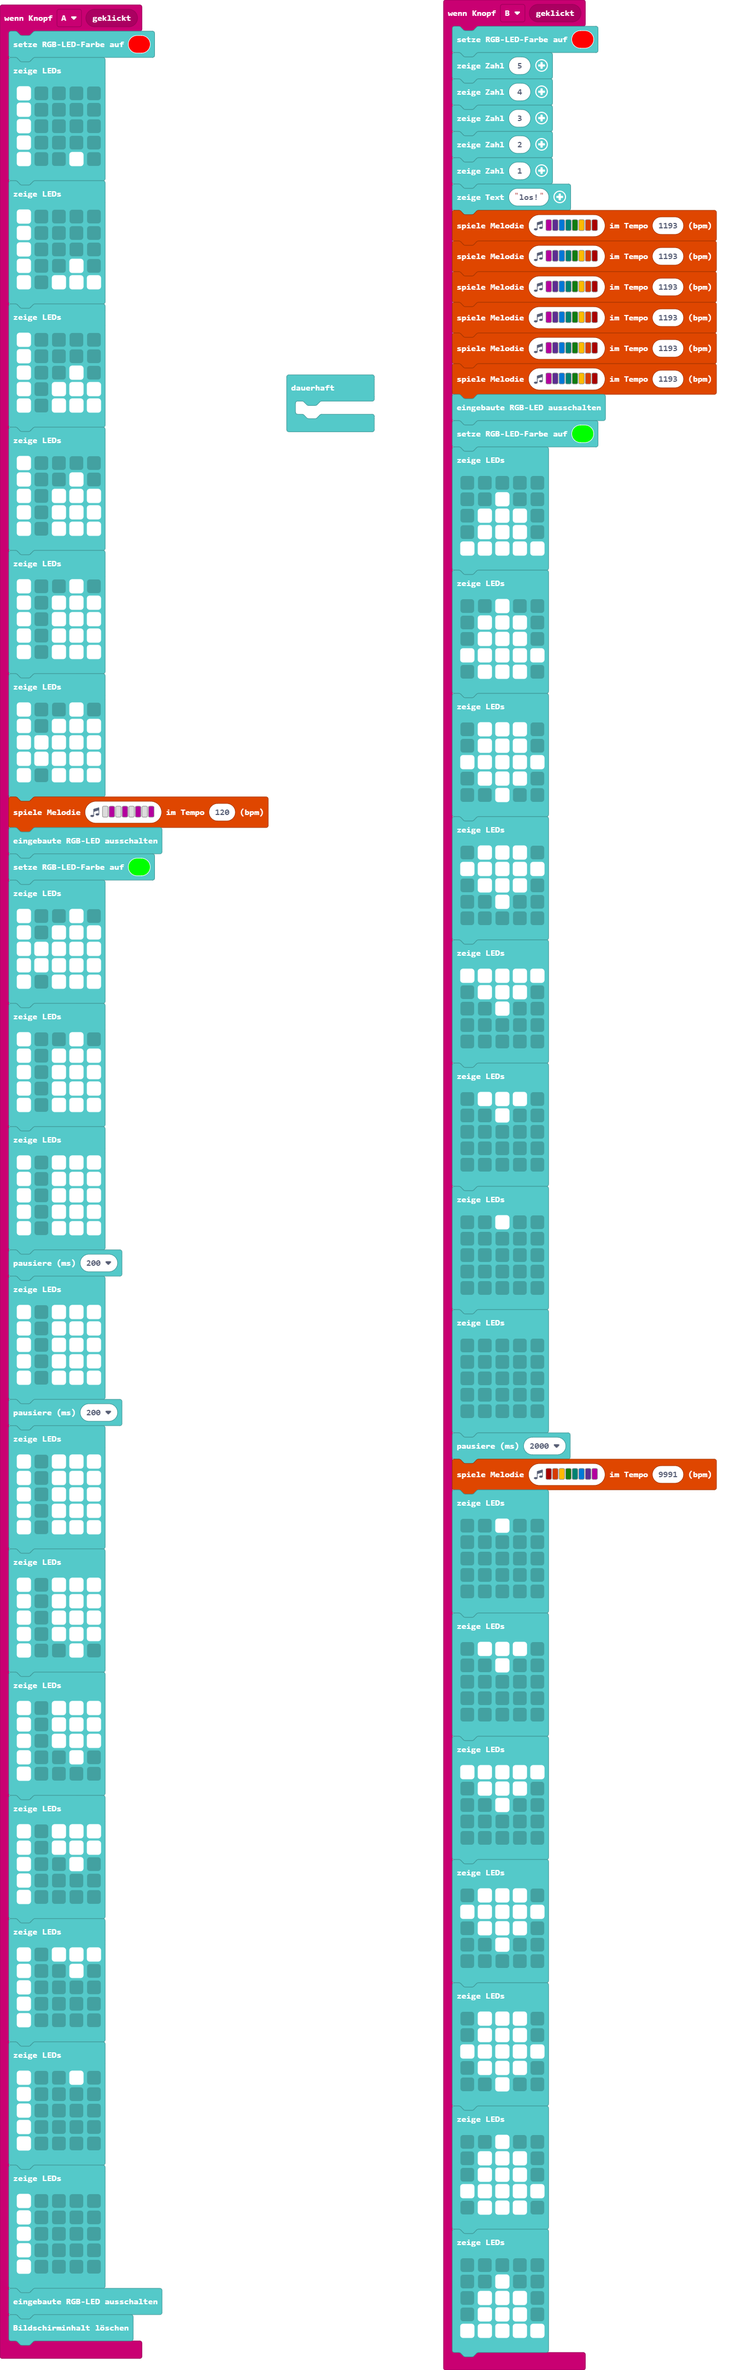
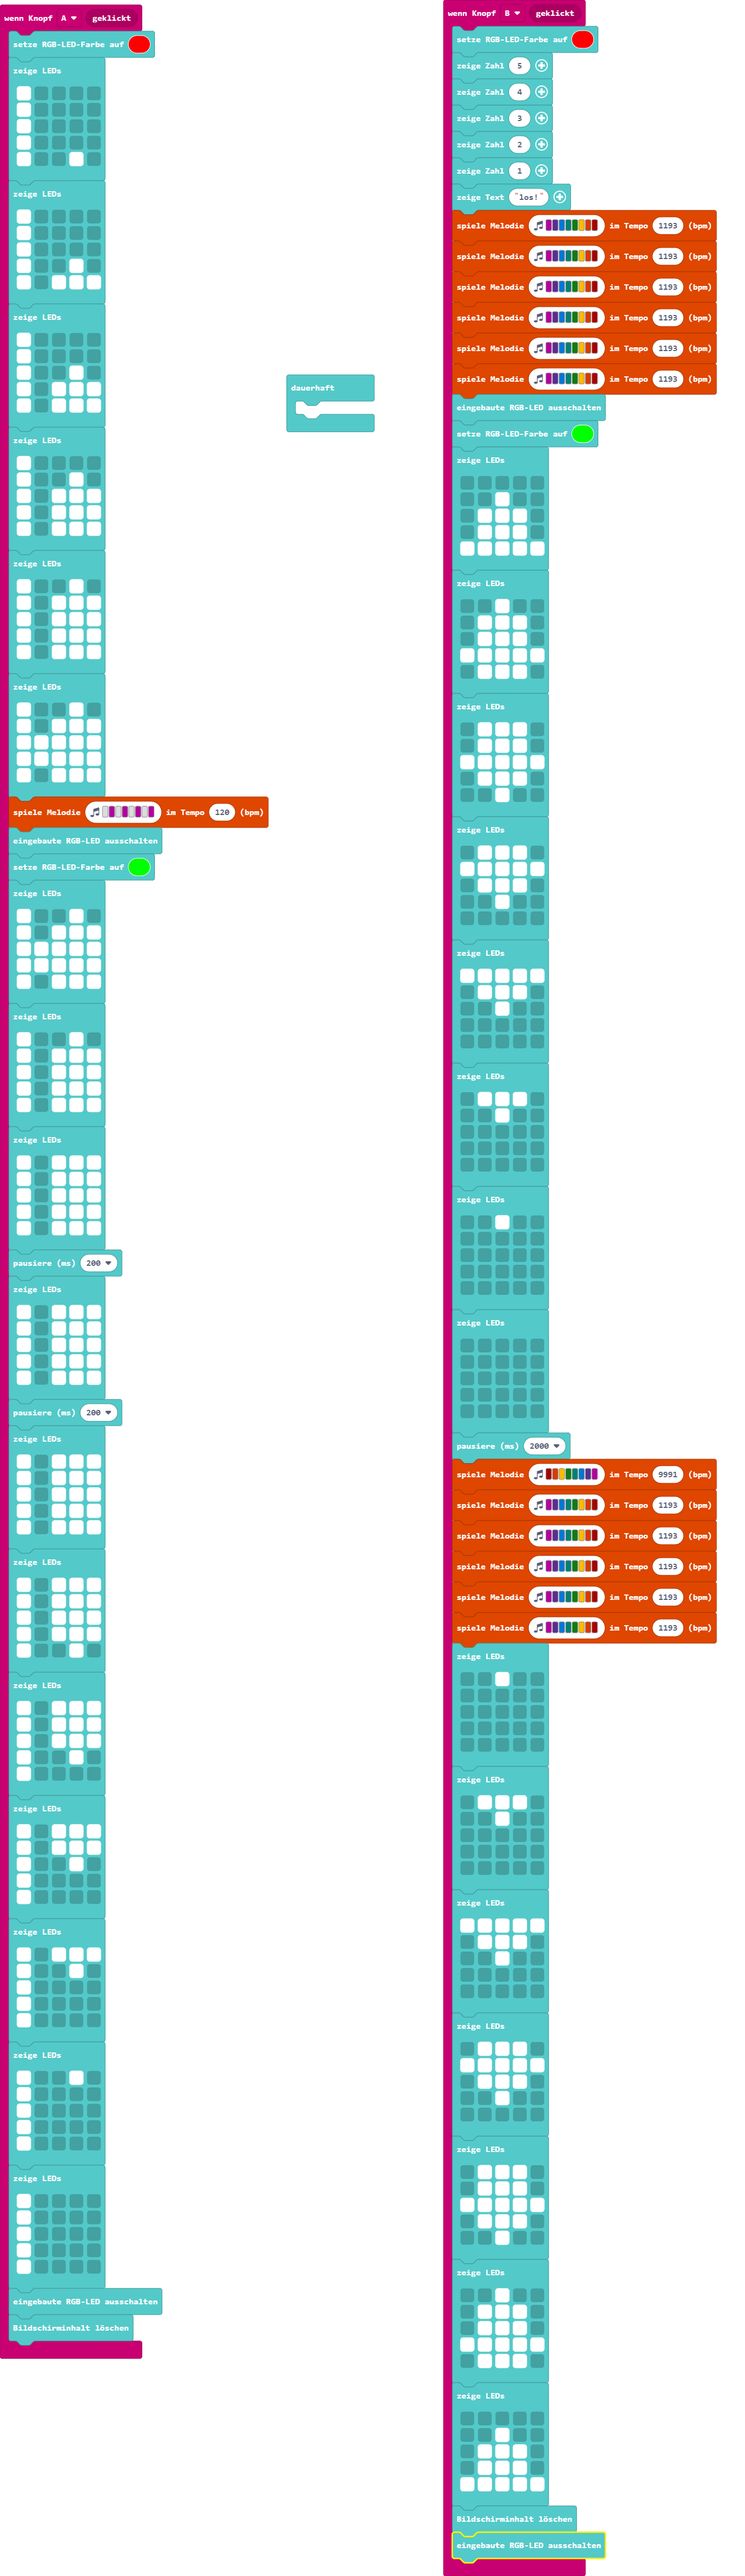
Aktualisiere main.blocks, main.ts

Changed region(s): [[0.5863, 0.0, 0.9875, 0.9984], [0.0, 0.0, 0.3703, 0.9984], [0.3703, 0.1248, 0.5246, 0.1872]]

diff --git a/main.ts b/main.ts
@@ -201,6 +201,11 @@ input.onButtonEvent(Button.B, input.buttonEventClick(), function () {
         `)
     basic.pause(2000)
     music.playMelody("C5 B A G F E D C ", 9991)
+    music.playMelody("C D E F G A B C5 ", 1193)
+    music.playMelody("C D E F G A B C5 ", 1193)
+    music.playMelody("C D E F G A B C5 ", 1193)
+    music.playMelody("C D E F G A B C5 ", 1193)
+    music.playMelody("C D E F G A B C5 ", 1193)
     basic.showLeds(`
         . . # . .
         . . . . .
@@ -250,6 +255,8 @@ input.onButtonEvent(Button.B, input.buttonEventClick(), function () {
         . # # # .
         # # # # #
         `)
+    basic.clearScreen()
+    basic.turnRgbLedOff()
 })
 basic.forever(function () {
 	
